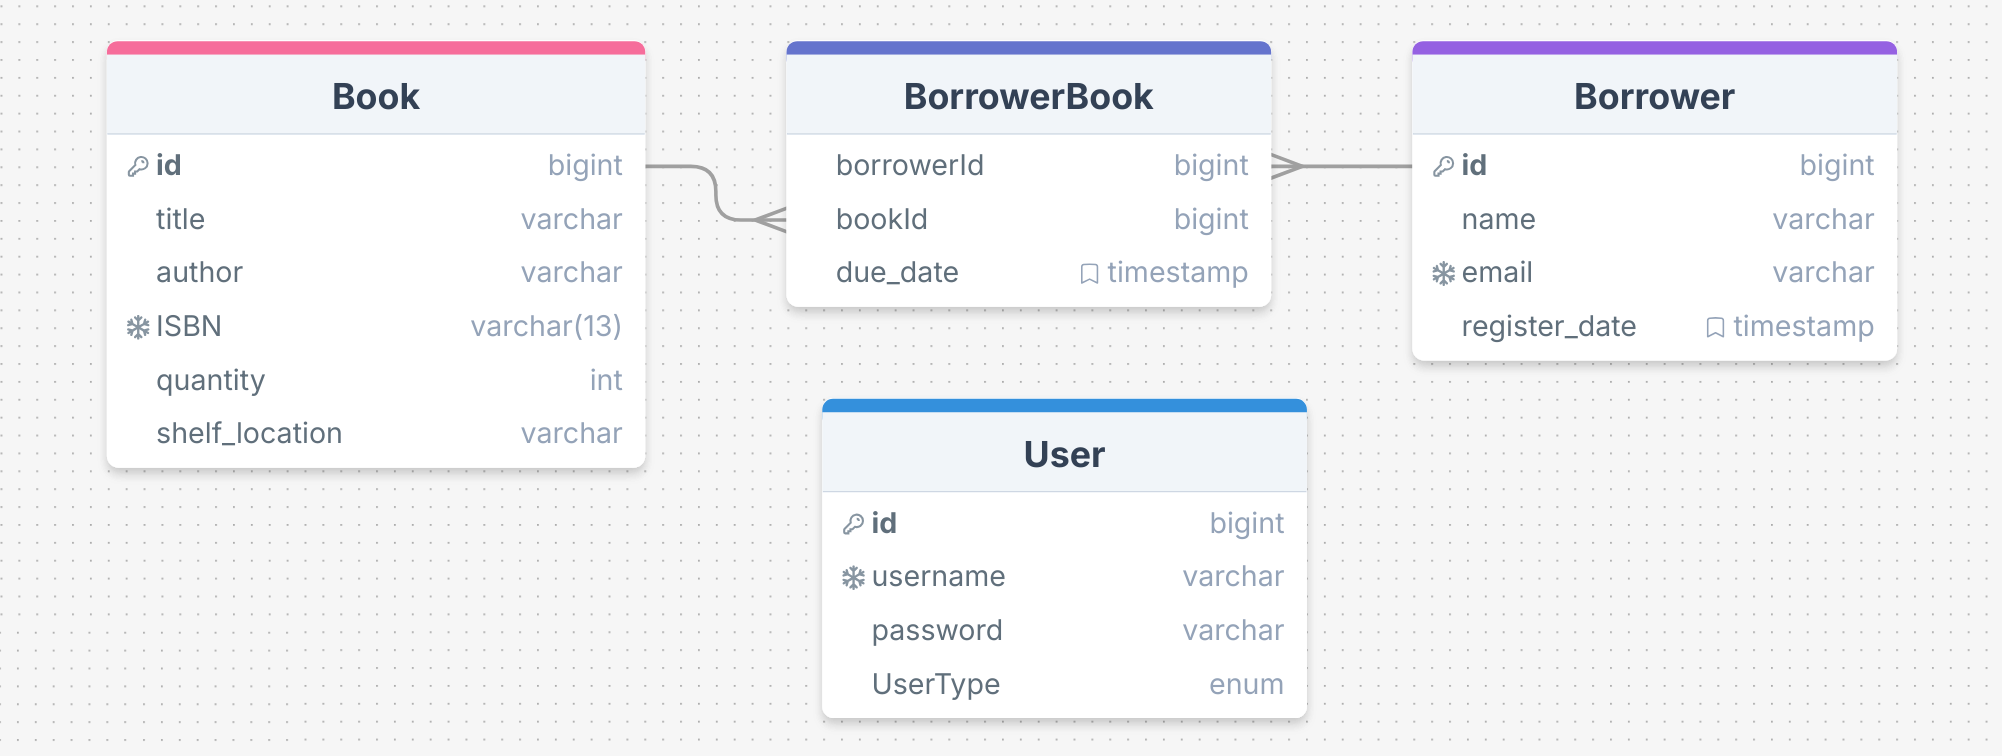
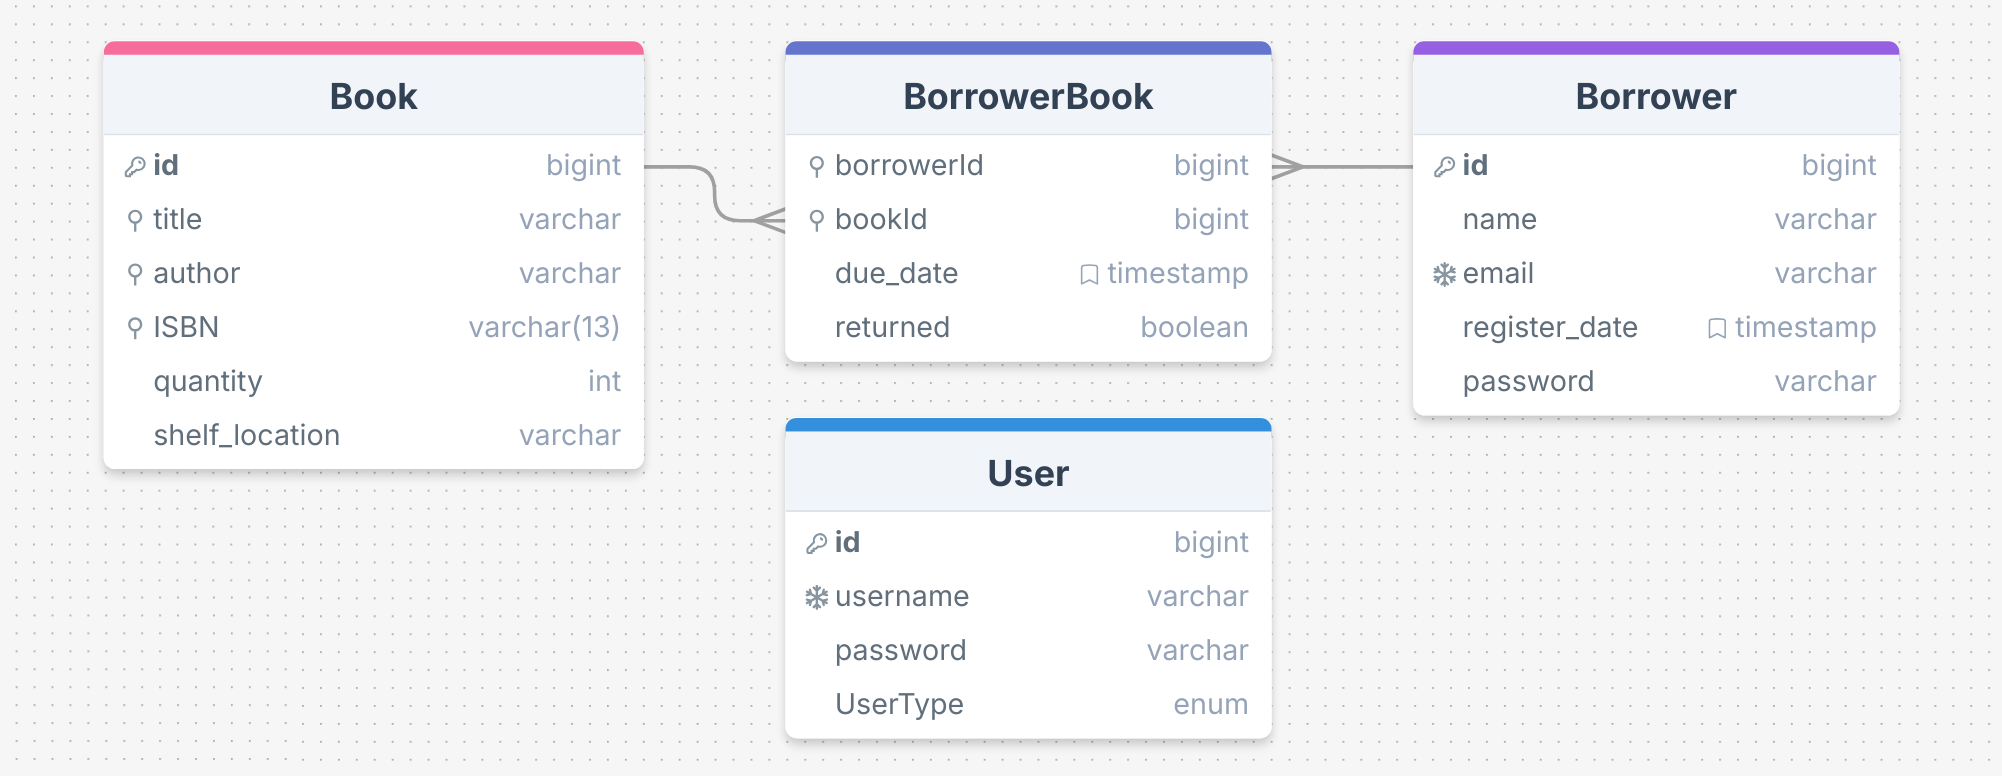
add readme and docker-composer

diff --git a/README.md b/README.md
@@ -14,26 +14,177 @@
 Here I will make some assumptions for the system
 
 1. System Users
-    1. User: can access, add or update resources
+    1. SystemUser: can access, add or update resources
     2. Admin: can access, add, update and delete resources and add new system User
 2. Borrower : borrow a book, return a book, list all borrowed books
 3. ISBN-13 (need 17 chars, 4 hyphens) e.g. 789-0-12-999111-2
 4. Shelf Location will user varchar for simplicity
 
 
-
 ## Database Schema
 ![Database Schema](assets/schema.png)
--> need update
--> add indexes
+
+### Indexes
+1. Book.title, Book.author, Book.ISBN for high search performance
+2. (BorrowerBook.borrowerId, BorrowerBook.bookId) to enable fast checkout and return books, fast listing borrowed book.
+3. suggestion: adding index on (returned and duedate) if listinbg overdue books is a frequent operations.
 
 ## Project structure
-
-
+```
+.
+├── Error
+│   ├── ErrorHandler.js
+│   ├── LoginError.js
+│   └── NotFoundError.js
+├── README.md
+├── app.js
+├── assets
+│   └── schema.png
+├── config
+│   ├── app.config.js
+│   ├── db.config.js
+│   ├── index.js
+│   └── logger.config.js
+├── controllers
+│   ├── BookController.js
+│   ├── BorrowerBookController.js
+│   ├── BorrowerController.js
+│   └── UserController.js
+├── database
+│   └── database.js
+├── docker-compose.yml
+├── logger
+│   └── logger.js
+├── logs
+│   ├── errors.log
+│   └── logs.log
+├── middlewares
+│   ├── RateLimiter.js
+│   └── jwt.js
+├── models
+│   ├── Book.js
+│   ├── Borrower.js
+│   ├── BorrowerBook.js
+│   └── User.js
+├── package-lock.json
+├── package.json
+├── routes
+│   ├── BookRoutes.js
+│   ├── BorrowerBooksRoutes.js
+│   ├── BorrowerRoutes.js
+│   ├── UserRoutes.js
+│   └── index.js
+└── services
+    ├── bookService.js
+    ├── borrowBookService.js
+    ├── borrowerService.js
+    └── userService.js
+```
 ## Implementation
 
 ### SQL Injection
-### JWT
+
+Handle sql injection by :- 
+1. using paramterized queries and avoiding raw queries
+
+    ```javascript
+        const books = await Book.findAll({
+            where: {
+                [Op.or]: [
+                    { title: { [Op.like]: `%${query}%` } },
+                    { author: { [Op.like]: `%${query}%` } },
+                    { ISBN: query }
+                ]
+            }
+        });
+    ```
+
+2.  validate inputs
+
+    ```javascript
+        check('title').notEmpty().withMessage('Title is required'),
+        check('author').notEmpty().withMessage('Author is required'),
+        check('ISBN').isISBN().withMessage('Invalid ISBN'),
+        check('quantity').isInt({ min: 0 }).withMessage('Quantity must be a non-negative integer'),
+        check('shelfLocation').optional().isString().withMessage('Shelf Location must be a string')
+    ```
+
 ### Error handler
+Implement a Global Error Handler and custom Errors for :
+
+1. Centralized Error Management: Handles all errors in one place, reducing redundancy.
+2. Consistent Responses: Ensures uniform error response format across the application.
+3. Maintenance Efficiency: Simplifies code maintenance by reducing the need for repetitive error handling.
+4. Separation of Concerns: Keeps error handling logic separate from business logic.
+
+    ```javascript
+    const errorHandler = (err, req, res, next) => {
+        let statusCode = err.statusCode || 500;
+        let message = err.message || "Internal Server Error";
+
+        if (err instanceof ValidationError) {
+            statusCode = 400;
+            message = err.message;
+        } 
+        else if (err instanceof DatabaseError) {
+            statusCode = 500;
+            message = err.message;
+        }
+        else if (err instanceof LoginError || err instanceof NotFoundError) {
+            statusCode = err.statusCode;
+            message = err.message
+        }
+
+        logger.error("Error Handler catches an exception: " + message)
+        res.status(statusCode).json({
+            status: 'error',
+            statusCode,
+            message,
+        });
+    }
+    ```
+
 ### Logger
+
+Add a logger for better error Tracking, monitoring, debugging
+
+```javascript
+    const logger = createLogger({
+        level: 'info',
+        format: format.combine(
+            format.timestamp(),
+            format.printf(({ timestamp, level, message }) => {
+                return `${timestamp} ${level}: ${message}`;
+            })
+        ),
+        transports: [
+            new transports.Console(),
+            new transports.File({ filename: config.logger.log_error_path, level: 'error' }), 
+            new transports.File({ filename: config.logger.log_path })
+        ]
+    });
+```
+
 ### RateLimitting
+
+Using the `express-rate-limit` package for:
+1. Easy Setup: Quickly adds rate limiting to the application.
+2. Customizable: Lets you configure limits based on your needs.
+
+    ```javascript
+    const checkoutLimiter = rateLimit({
+        windowMs: 60 * 1000,  // 1 minute
+        max: 10,
+        message: 'Too many requests for checkout, please try again later.',
+    });
+
+
+    const returnLimiter = rateLimit({
+        windowMs: 60 * 1000,  // 1 minute
+        max: 30,
+        message: 'Too many return requests, please try again later.',
+    });
+    ```
+
+### JWT
+JWT (JSON Web Tokens) to Implement basic authentication for the API.
